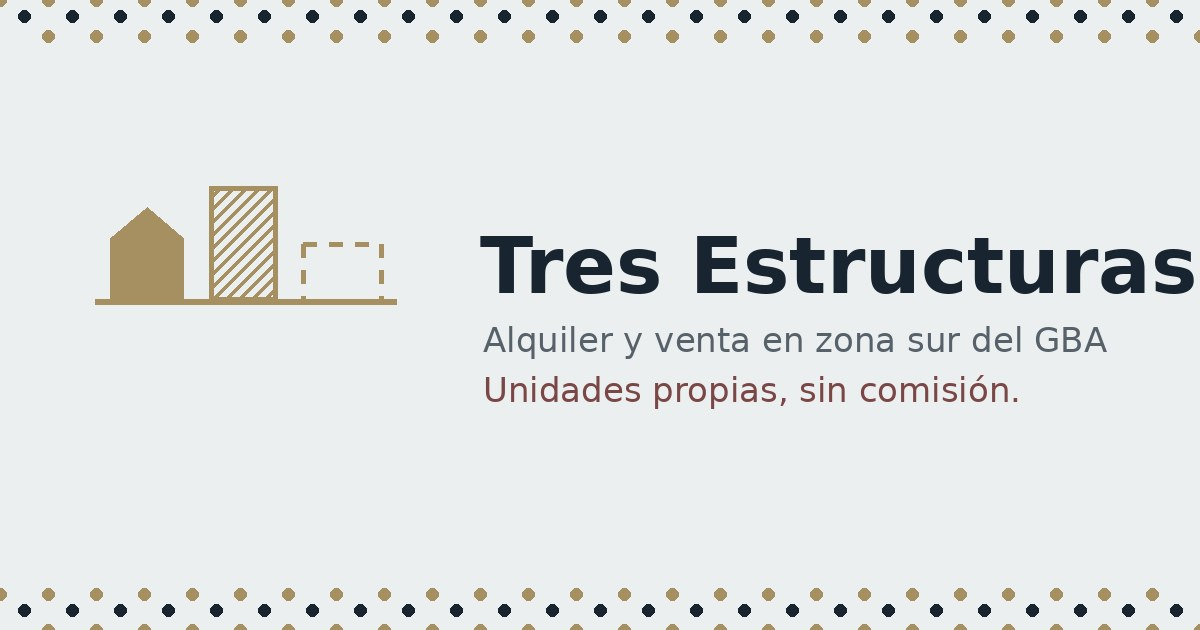
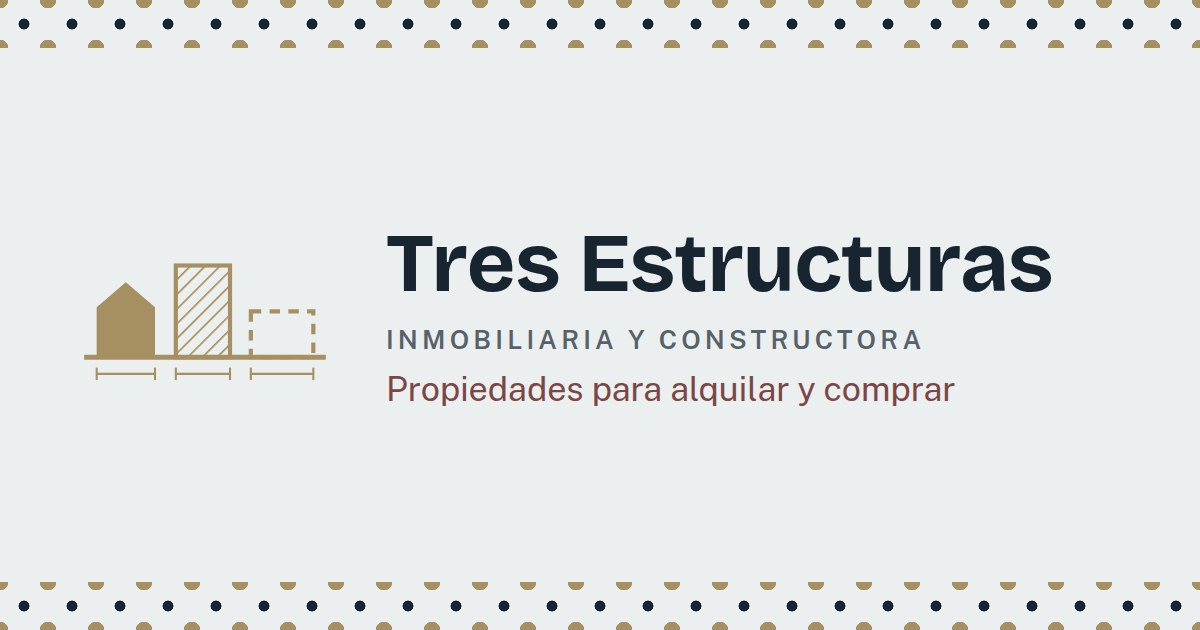
Stop naming a region on the site ("zona sur")
The client: "zona sur" limits them to one area, and they work all over.
Removed from the header of every page and the printable sign, the home
text, its title, descriptions and structured data (areaServed is now
Argentina), the owners' block ("¿Tenés una propiedad para alquilar o
vender?"), the footers and the app manifest. The home's link preview
image is redrawn without it (and without the outdated "sin comisión"),
and so is the coming-soon preview. Property descriptions are the
owners' own text and stay as they are.

diff --git a/index.html b/index.html
@@ -3,14 +3,14 @@
 <head>
   <meta charset="UTF-8">
   <meta name="viewport" content="width=device-width, initial-scale=1.0">
-  <title>Tres Estructuras — Inmobiliaria y constructora en zona sur</title>
-  <meta name="description" content="Inmobiliaria y constructora en zona sur del GBA. Propiedades para alquilar y comprar en Quilmes, Bernal, Avellaneda, Lanús y Lomas, con precio, expensas, requisitos y video en cada ficha.">
+  <title>Tres Estructuras — Inmobiliaria y constructora</title>
+  <meta name="description" content="Inmobiliaria y constructora. Propiedades para alquilar y comprar, con precio, expensas, requisitos y video en cada ficha, y respuesta por WhatsApp.">
 
   <link rel="canonical" href="https://tresestructuras.com/">
   <meta property="og:type" content="website">
   <meta property="og:site_name" content="Tres Estructuras">
-  <meta property="og:title" content="Tres Estructuras — Inmobiliaria y constructora en zona sur">
-  <meta property="og:description" content="Propiedades para alquilar y comprar, publicadas con todo a la vista. Quilmes, Bernal, Avellaneda, Lanús y Lomas.">
+  <meta property="og:title" content="Tres Estructuras — Inmobiliaria y constructora">
+  <meta property="og:description" content="Propiedades para alquilar y comprar, publicadas con todo a la vista.">
   <meta property="og:image" content="https://tresestructuras.com/assets/og-home.jpg">
   <meta property="og:url" content="https://tresestructuras.com/">
   <meta name="twitter:card" content="summary_large_image">
@@ -26,8 +26,8 @@
     "@type": "RealEstateAgent",
     "name": "Tres Estructuras",
     "url": "https://tresestructuras.com",
-    "areaServed": ["Quilmes", "Bernal", "Avellaneda", "Lanús", "Lomas de Zamora"],
-    "description": "Inmobiliaria y constructora en zona sur del Gran Buenos Aires: alquiler y venta de unidades propias y de clientes."
+    "areaServed": { "@type": "Country", "name": "Argentina" },
+    "description": "Inmobiliaria y constructora: alquiler y venta de unidades propias y de clientes."
   }
   </script>
 
@@ -45,7 +45,7 @@
         <img class="header__logo" src="assets/logo.svg" alt="" width="46" height="33">
         <span class="header__nombre">
           Tres Estructuras
-          <span class="header__rubro">Inmobiliaria y constructora · Zona sur</span>
+          <span class="header__rubro">Inmobiliaria y constructora</span>
         </span>
       </a>
       <a class="header__tel" id="tel-header" href="#" target="_blank" rel="noopener">
@@ -60,7 +60,7 @@
     <section class="hero contenedor">
       <h1 class="hero__titulo">Propiedades para alquilar y comprar,<br>publicadas con todo a la vista.</h1>
       <p class="hero__bajada">
-        Inmobiliaria y constructora en zona sur del Gran Buenos Aires. Reciclamos y administramos unidades propias,
+        Inmobiliaria y constructora. Reciclamos y administramos unidades propias,
         y alquilamos y vendemos las de nuestros clientes. Precio, expensas y requisitos en cada ficha, video de cada
         unidad y respuesta por WhatsApp.
         <span id="contador" class="hero__contador" aria-live="polite"></span>
@@ -97,7 +97,7 @@
 
     <section class="propietarios contenedor" aria-labelledby="propietarios-titulo">
       <div class="propietarios__caja">
-        <h2 class="propietarios__titulo" id="propietarios-titulo">¿Tenés una propiedad en zona sur?</h2>
+        <h2 class="propietarios__titulo" id="propietarios-titulo">¿Tenés una propiedad para alquilar o vender?</h2>
         <p class="propietarios__texto">La publicamos con fotos profesionales, video y precio claro, y la mostramos nosotros. Si necesita arreglos para alquilarse mejor, también los hacemos: somos constructora.</p>
         <a class="boton-wa" id="propietarios-wa" href="#" target="_blank" rel="noopener">
           <svg width="22" height="22" viewBox="0 0 24 24" fill="currentColor" aria-hidden="true"><path d="M12 2a10 10 0 0 0-8.6 15.1L2 22l5-1.3A10 10 0 1 0 12 2zm0 18.2a8.2 8.2 0 0 1-4.2-1.2l-.3-.2-3 .8.8-2.9-.2-.3A8.2 8.2 0 1 1 12 20.2zm4.5-6.1c-.2-.1-1.5-.7-1.7-.8-.2-.1-.4-.1-.6.1-.2.2-.6.8-.8 1-.1.2-.3.2-.5.1a6.7 6.7 0 0 1-3.3-2.9c-.3-.4.2-.4.6-1.3.1-.2 0-.4 0-.5l-.8-1.8c-.2-.5-.4-.4-.6-.4h-.5c-.2 0-.5.1-.7.3-.9.9-1.2 2.1-.6 3.5.7 1.5 2 3.2 3.9 4.4 2.4 1.5 3.4 1.6 4.4 1.4.6-.1 1.5-.6 1.7-1.2.2-.6.2-1.1.1-1.2 0-.1-.2-.2-.4-.3z"/></svg>
@@ -109,7 +109,7 @@
 
   <footer class="pie">
     <div class="contenedor pie__interno">
-      <span>Tres Estructuras — inmobiliaria y constructora. Zona sur del GBA.</span>
+      <span>Tres Estructuras — inmobiliaria y constructora.</span>
       <span class="pie__codigo">tresestructuras.com</span>
     </div>
   </footer>

diff --git a/propiedad.html b/propiedad.html
@@ -9,7 +9,7 @@
   <base href="/">
   <meta name="viewport" content="width=device-width, initial-scale=1.0">
   <title>Propiedad — Tres Estructuras</title>
-  <meta name="description" content="Ficha de propiedad de Tres Estructuras, inmobiliaria y constructora en zona sur del GBA: precio, expensas, requisitos y video.">
+  <meta name="description" content="Ficha de propiedad de Tres Estructuras, inmobiliaria y constructora: precio, expensas, requisitos y video.">
 
   <meta name="theme-color" content="#182430">
   <link rel="manifest" href="manifest.json">
@@ -30,7 +30,7 @@
         <img class="header__logo" src="assets/logo.svg" alt="" width="46" height="33">
         <span class="header__nombre">
           Tres Estructuras
-          <span class="header__rubro">Inmobiliaria y constructora · Zona sur</span>
+          <span class="header__rubro">Inmobiliaria y constructora</span>
         </span>
       </a>
       <a class="header__tel" id="tel-header" href="#" target="_blank" rel="noopener">
@@ -143,7 +143,7 @@
 
   <footer class="pie">
     <div class="contenedor pie__interno">
-      <span>Tres Estructuras — inmobiliaria y constructora. Zona sur del GBA.</span>
+      <span>Tres Estructuras — inmobiliaria y constructora.</span>
       <span class="pie__codigo">tresestructuras.com</span>
     </div>
   </footer>

diff --git a/404.html b/404.html
@@ -27,7 +27,7 @@
         <img class="header__logo" src="assets/logo.svg" alt="" width="46" height="33">
         <span class="header__nombre">
           Tres Estructuras
-          <span class="header__rubro">Inmobiliaria y constructora · Zona sur</span>
+          <span class="header__rubro">Inmobiliaria y constructora</span>
         </span>
       </a>
       <a class="header__tel" id="tel-header" href="#" target="_blank" rel="noopener">
@@ -53,7 +53,7 @@
 
   <footer class="pie">
     <div class="contenedor pie__interno">
-      <span>Tres Estructuras — inmobiliaria y constructora. Zona sur del GBA.</span>
+      <span>Tres Estructuras — inmobiliaria y constructora.</span>
       <span class="pie__codigo">tresestructuras.com</span>
     </div>
   </footer>

diff --git a/js/cartel.js b/js/cartel.js
@@ -76,7 +76,7 @@
     // QR variable: apunta a la ficha de ESTA unidad con fuente cartel
     $("c-qr").innerHTML = TE_QR.svg(p.codigo, "cartel");
     $("c-codigo").textContent = "Código " + p.codigo;
-    $("c-pie").textContent = CONFIG.dominio.replace(/^https?:\/\//, "") + " · Inmobiliaria y constructora · Zona sur";
+    $("c-pie").textContent = CONFIG.dominio.replace(/^https?:\/\//, "") + " · Inmobiliaria y constructora";
 
     $("btn-qr-png").addEventListener("click", function () {
       TE_QR.descargarPNG(p.codigo, "cartel");

diff --git a/cartel.html b/cartel.html
@@ -234,7 +234,7 @@
       <div class="cartel__marca">
         <img src="assets/logo.svg" alt="">
         <span class="cartel__nombre">Tres Estructuras
-          <span class="cartel__rubro">Inmobiliaria y constructora · Zona sur</span>
+          <span class="cartel__rubro">Inmobiliaria y constructora</span>
         </span>
       </div>
 

diff --git a/SPEC.md b/SPEC.md
@@ -1,6 +1,6 @@
 # Tres Estructuras — Full specification v3
 
-**Property management and sales system. Southern Greater Buenos Aires (zona sur GBA).**
+**Property management and sales system. Based in Greater Buenos Aires; the site names no region (client request, 2026-10-20: "Argentina es grande").**
 Reference document for the system as it is built and running (updated October 2026).
 It is the handover spec for any developer who has to maintain, extend or rebuild it.
 The user-facing manuals are `README.md` (daily use) and `INSTALACION.md` (setup), both in Spanish.
@@ -66,11 +66,11 @@ Direct and honest, in Argentine Spanish (voseo). Say what was refurbished, what 
 ## 4. Public site
 
 ### Home (`index.html`)
-- Hero with the positioning (real-estate agency and builder in zona sur; own units plus clients' properties, everything in plain sight) and a counter of the listed properties (all but closed), computed from the JSON, singular or plural.
+- Hero with the positioning (real-estate agency and builder; own units plus clients' properties, everything in plain sight; no region named anywhere on the site) and a counter of the listed properties (all but closed), computed from the JSON, singular or plural.
 - Filters by operation (All/Rent/Sale) and zone (Quilmes/Bernal/Avellaneda/Lanús/Lomas), sticky while scrolling, **mirrored in the URL** (`?op=&zona=`) so a filter can be shared.
 - Responsive grid, 1/2/3 columns. Card: photo, operation chip, code in mono, title, zone, price, expenses if any, hard data, 360 badge when relevant. The whole card is a link with a visible focus.
 - Empty state with the tile pattern and a button to clear filters.
-- Below the listing, a block for owners ("¿Tenés una propiedad en zona sur?") with a WhatsApp button (same link as the floating one).
+- Below the listing, a block for owners ("¿Tenés una propiedad para alquilar o vender?") with a WhatsApp button (same link as the floating one).
 
 ### Property page (`/p/{CODE}`; also `propiedad.html?c=CODE` and `/propiedad/{CODE}`)
 `/p/{CODE}` is a rewrite (200) to `fichas/{code}/index.html`, the full page generated at deploy with that property's Open Graph tags, JSON-LD and code baked in: a QR scan is one request with no redirect, and it is what WhatsApp and Google read. All pages use `<base href="/">` because the page rewrites its address to `/p/CODE`.

diff --git a/README.md b/README.md
@@ -1,6 +1,6 @@
 # Tres Estructuras — Manual de uso
 
-Este es el sitio de **Tres Estructuras**: propiedades propias en alquiler y venta, zona sur del GBA.
+Este es el sitio de **Tres Estructuras**: propiedades propias y de clientes en alquiler y venta.
 Este manual está escrito para usarlo **sin saber programar**. Guardalo a mano.
 
 > Para activar el panel con contraseña por primera vez, mirá **INSTALACION.md**.
